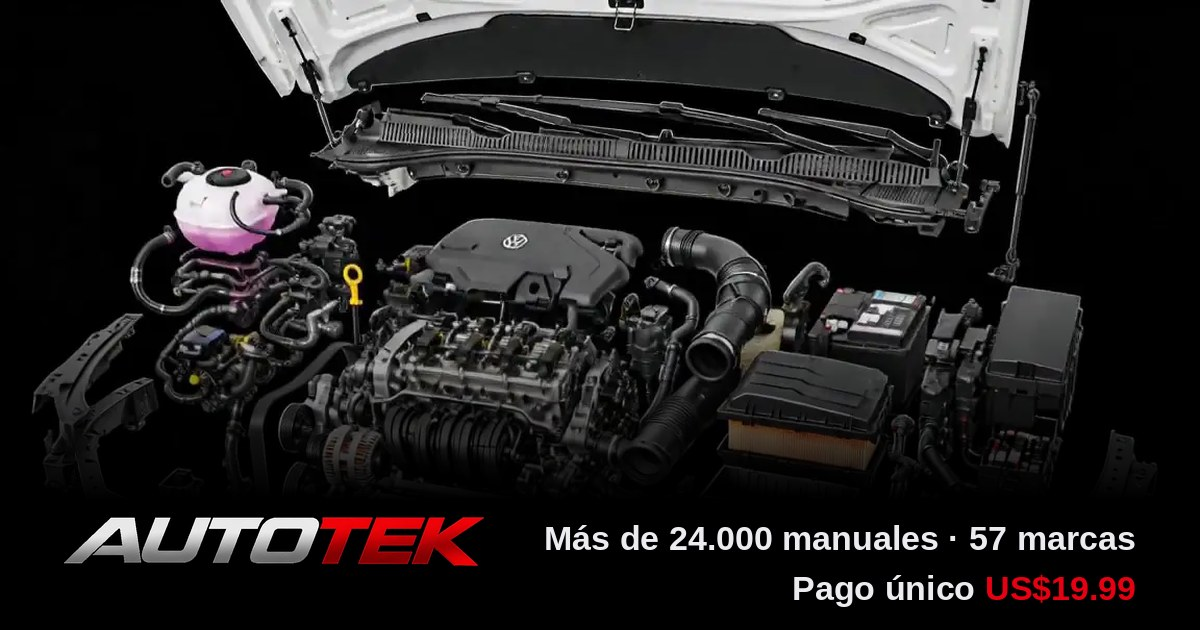
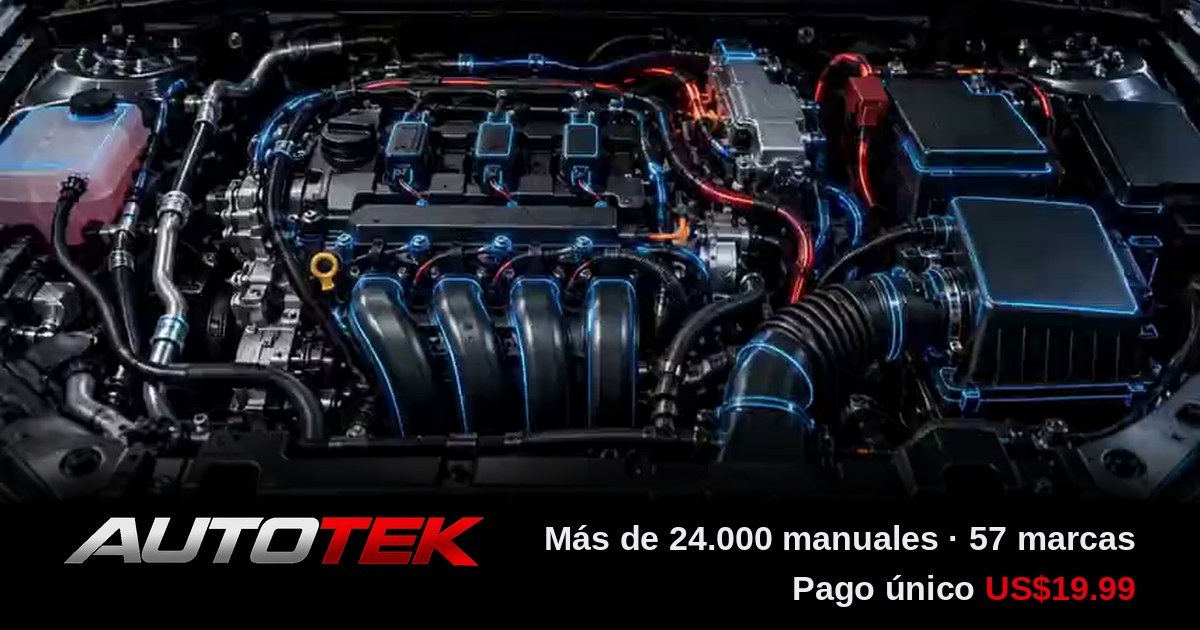
hero de carros: el poster ya no es el carro viejo (f_040), es el primer cuadro del propio video; og con el mismo motor

diff --git a/rapida/index.html b/rapida/index.html
@@ -26,7 +26,7 @@ document.addEventListener('click',function(ev){
 },true);
 </script>
 <!-- VEL1: la imagen del hero (elemento LCP) se pide con prioridad alta -->
-<link rel="preload" as="image" href="img/dp-frames/mob/f_040.webp" fetchpriority="high">
+<link rel="preload" as="image" href="img/hero-carros-poster.webp" fetchpriority="high">
 <meta name="viewport" content="width=device-width, initial-scale=1.0">
 <title>AUTOTEK: más de 24.000 manuales de taller de carros · el de tu marca y tu modelo</title>
 <meta name="description" content="Más de 24.000 manuales de taller y diagramas, organizados por marca, modelo y año, de 57 marcas de carros. Para el mecánico de taller, para el que repara su propio carro y para el que está aprendiendo. Pago único de US$19.99, con 80% de descuento.">
@@ -603,7 +603,7 @@ document.addEventListener('click',function(ev){
               <!-- CA1: el carrusel de 3 clips de moto no sirve para carros. Placeholder del
                    mismo tamaño; estructura de 3 slides original queda en comentario en
                    README-carros.md lista para pegar de vuelta cuando haya clips de carro. -->
-              <video class="hero-uno" data-src="vid/hero-carros.mp4" poster="img/dp-frames/mob/f_040.webp" muted loop playsinline autoplay preload="none" aria-label="Motor de un carro abierto en despiece, pieza por pieza."></video>
+              <video class="hero-uno" data-src="vid/hero-carros.mp4" poster="img/hero-carros-poster.webp" muted loop playsinline autoplay preload="none" aria-label="Motor de un carro abierto en despiece, pieza por pieza."></video>
               <span class="rec">Paso a paso</span>
             </div>
           </div>
@@ -1352,7 +1352,7 @@ if(document.readyState==='complete') poner(); else window.addEventListener('load
 </script>
 <script>
 /* VEL2: el video de la portada (1,26 MB) ya no compite con el píxel ni con el primer pantallazo. Mientras tanto se ve su
-   póster (el mismo frame f_040, precargado con prioridad alta). El video se pide después de 'load' (que espera a fbevents
+   póster (el primer cuadro del propio video, precargado con prioridad alta). El video se pide después de 'load' (que espera a fbevents
    y su config) y de un momento libre del navegador; arranca solo, igual que antes (muted/loop/autoplay). Mismo archivo. */
 (function(){
   function arrancar(){
